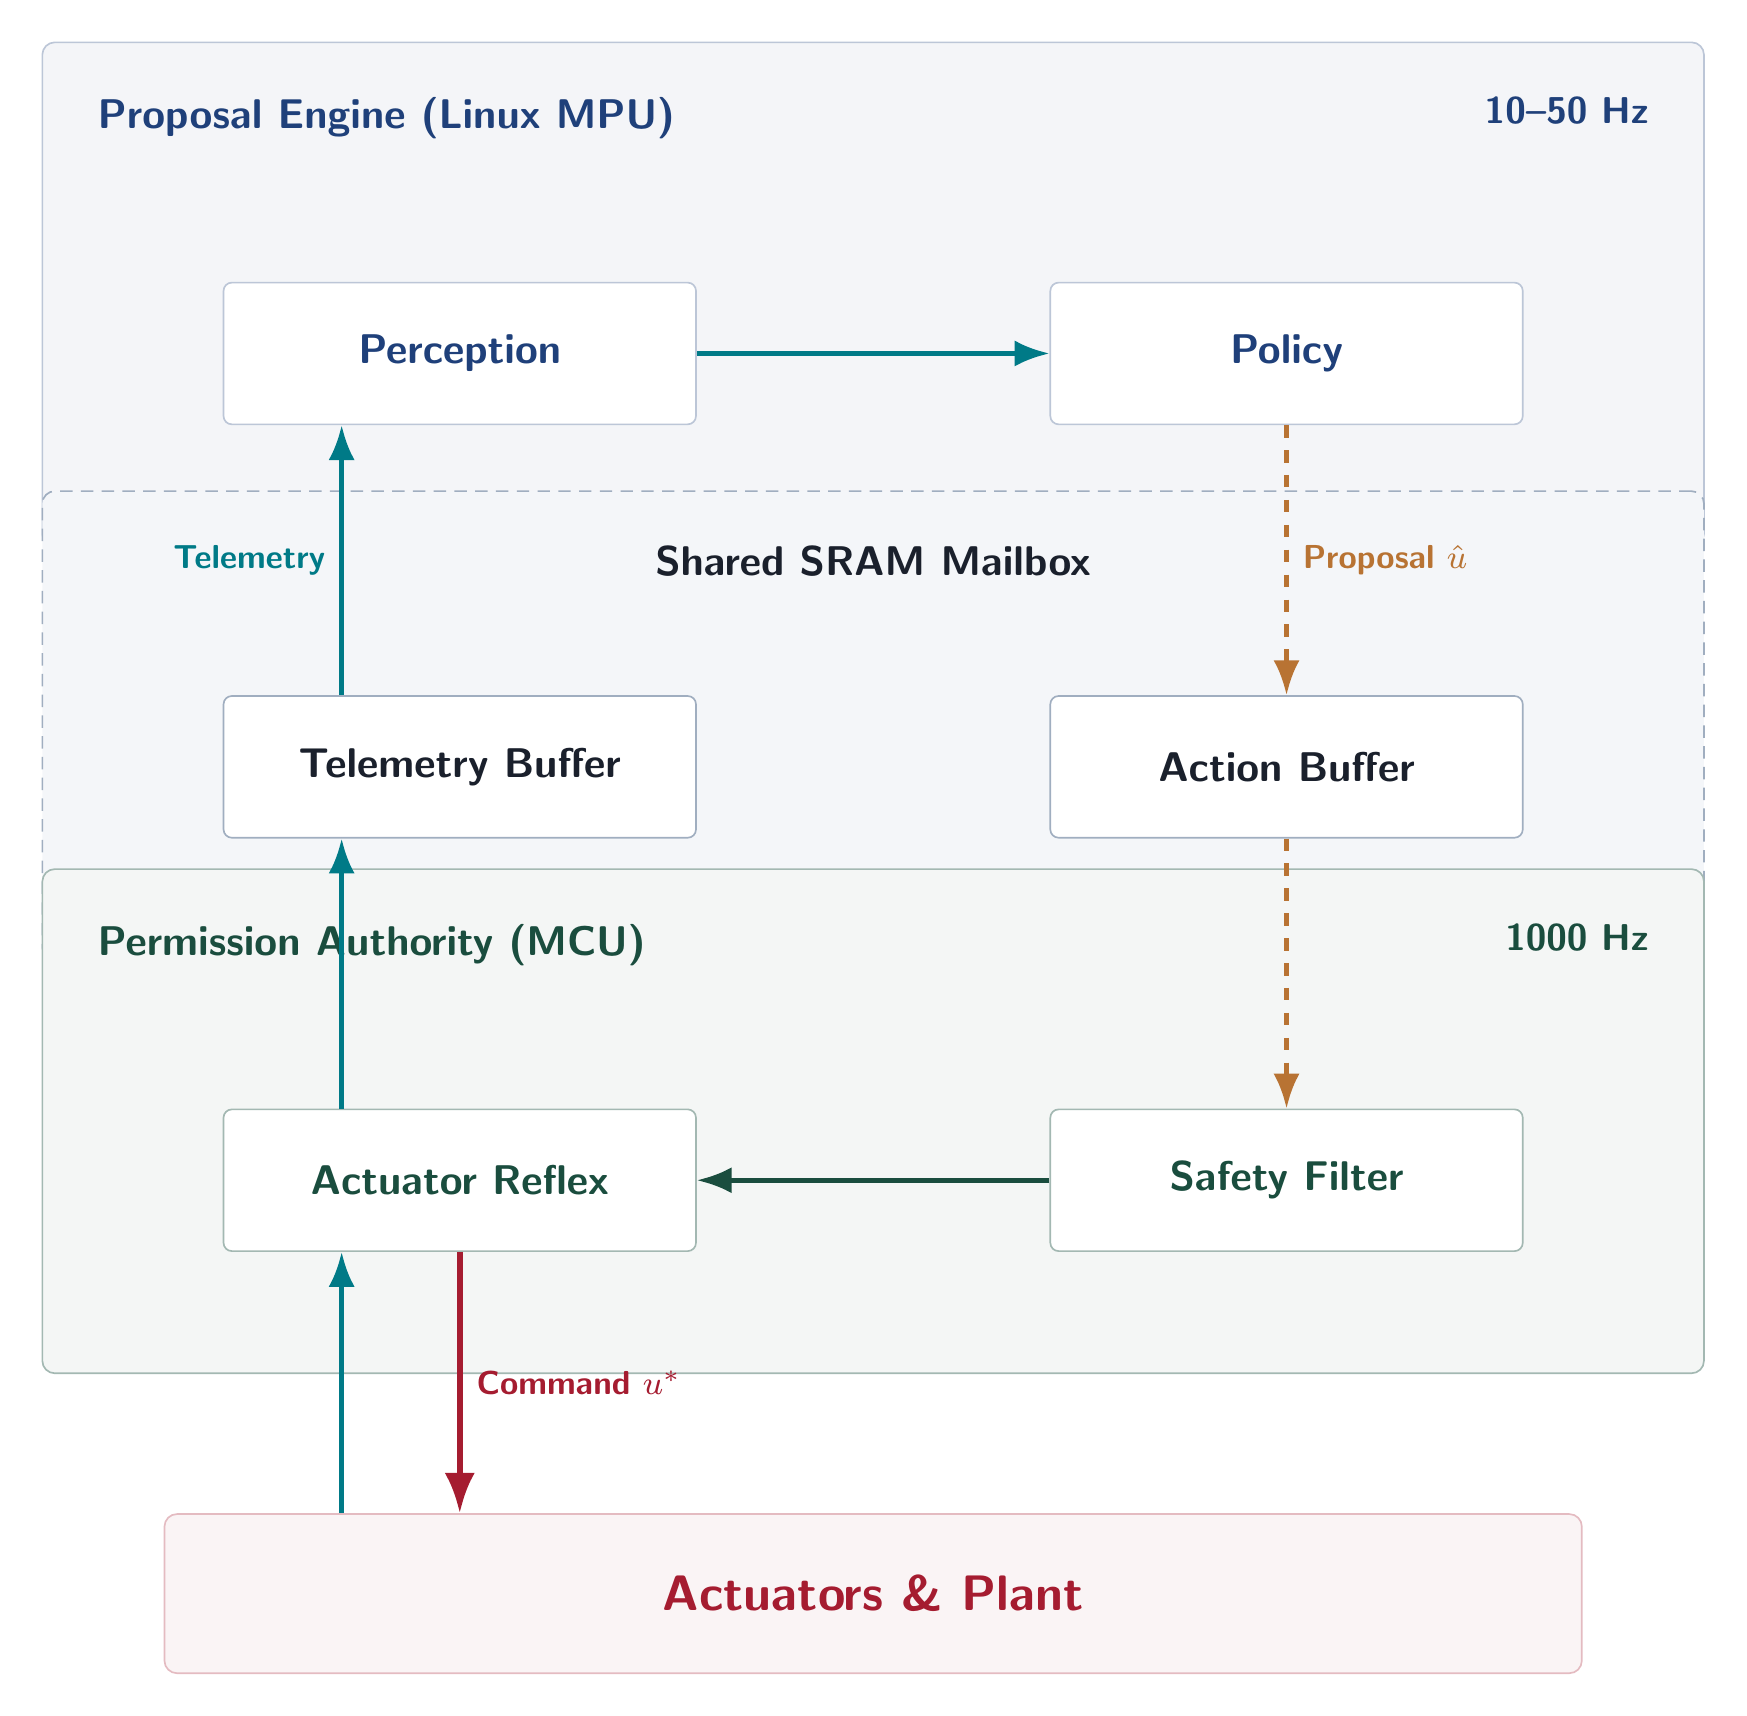
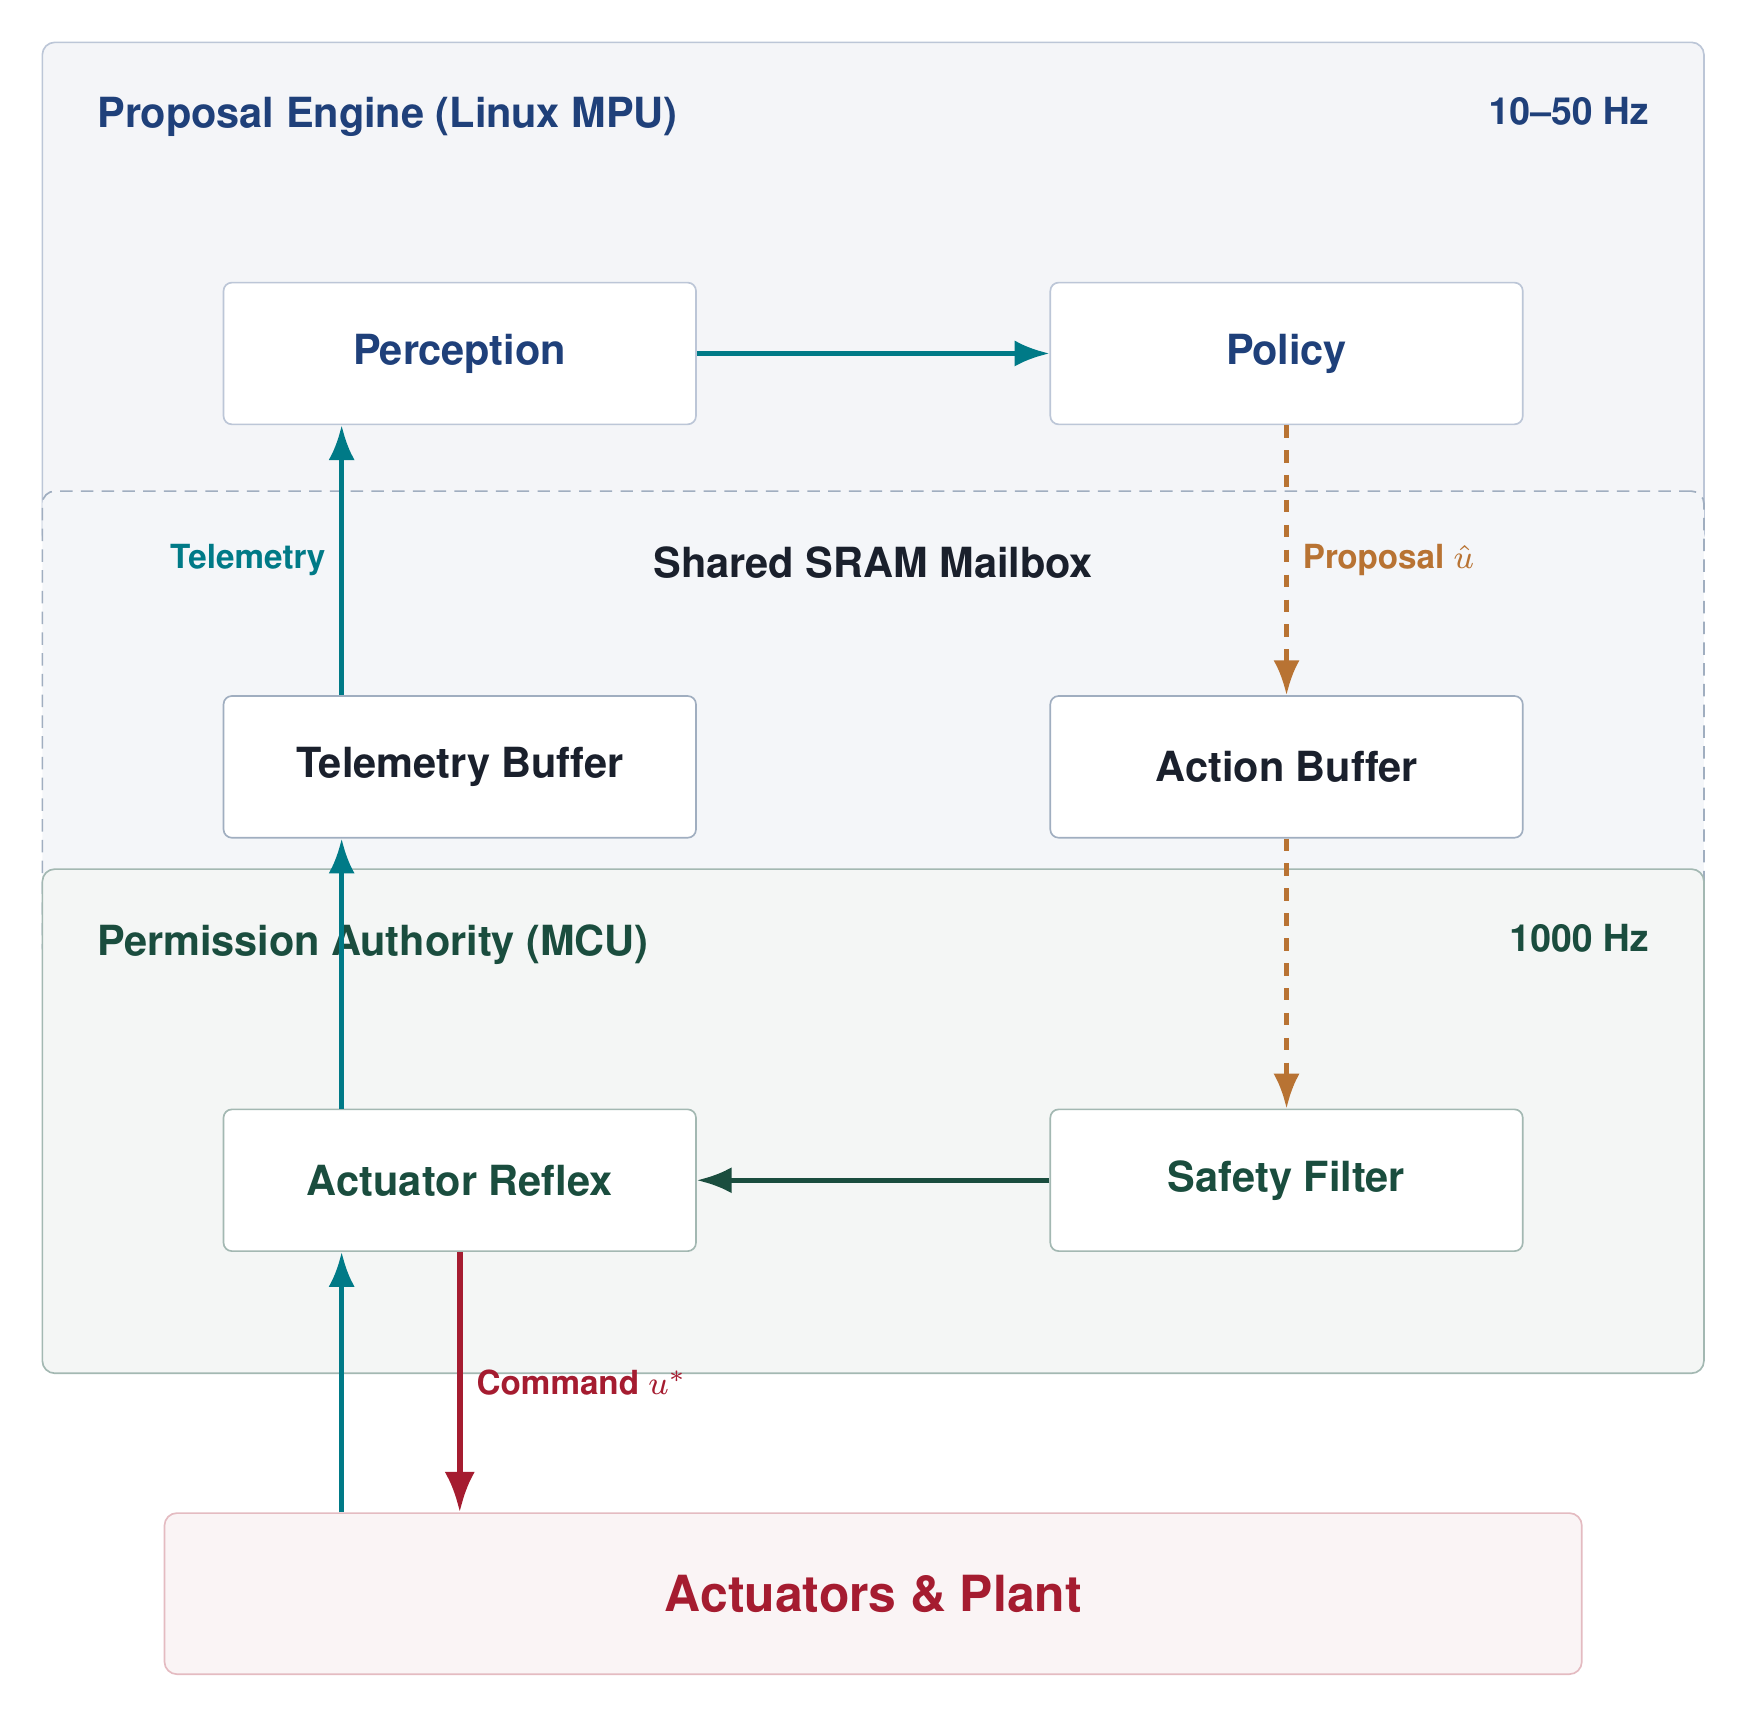
Fix font consistency and arrow clipping
- Add \usepackage{helvet} to fig04_two_processor.tex and
  fig14_authority_handshake_fsm.tex for consistent Helvetica across
  all TikZ figures
- Fix qualification ladder arrows being swallowed by marker dots:
  add shrinkA/shrinkB=8 and raise zorder above markers

diff --git a/books/vol4/tex/tikz/gen_fig15_qualification_ladder.py b/books/vol4/tex/tikz/gen_fig15_qualification_ladder.py
@@ -61,7 +61,7 @@ for name, fid, tput, color, subtitle, infra in stages:
     ax.plot([-5, fid], [tput, tput], color=paleink, linewidth=0.6,
             linestyle="--", zorder=1)
 
-# Transition arrows
+# Transition arrows — shrink endpoints so arrowheads don't hide behind dots
 for label, i_from, i_to in transitions:
     _, f1, t1, _, _, _ = stages[i_from]
     _, f2, t2, _, _, _ = stages[i_to]
@@ -70,8 +70,9 @@ for label, i_from, i_to in transitions:
     ax.annotate("",
                 xy=(f2, t2), xytext=(f1, t1),
                 arrowprops=dict(arrowstyle="-|>", color=ethdarkblue,
-                               lw=1.8, connectionstyle="arc3,rad=-0.15"),
-                zorder=4)
+                               lw=1.8, connectionstyle="arc3,rad=-0.15",
+                               shrinkA=8, shrinkB=8),
+                zorder=7)
     ax.text(mid_f, mid_t, label, fontsize=7.5, fontweight="bold",
             color=ethdarkblue, ha="left", va="center")
 

diff --git a/books/vol4/tex/tikz/fig04_two_processor.tex b/books/vol4/tex/tikz/fig04_two_processor.tex
@@ -1,4 +1,6 @@
 \documentclass[tikz,border=10pt]{standalone}
+\usepackage{helvet}
+\renewcommand{\familydefault}{\sfdefault}
 \usepackage{tikz}
 \usetikzlibrary{positioning, fit, calc, shapes.geometric, arrows.meta, backgrounds}
 

diff --git a/books/vol4/tex/tikz/fig14_authority_handshake_fsm.tex b/books/vol4/tex/tikz/fig14_authority_handshake_fsm.tex
@@ -1,4 +1,6 @@
 \documentclass[tikz,border=15pt]{standalone}
+\usepackage{helvet}
+\renewcommand{\familydefault}{\sfdefault}
 \usepackage{tikz}
 \usetikzlibrary{arrows.meta, positioning, fit, calc, shapes.geometric, automata}
 
